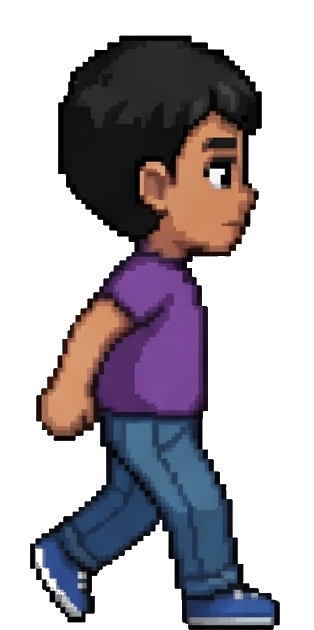
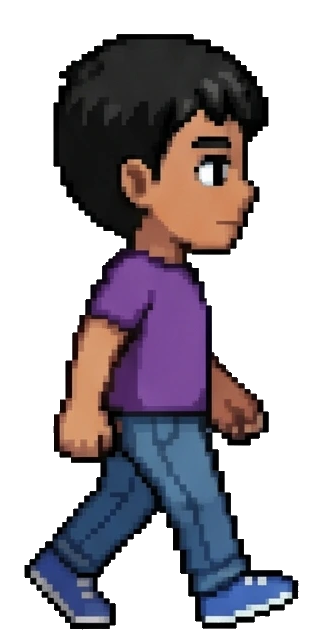
feat(jogo): quadros do personagem por direção (frente com 2)
Tabela QUADROS_PERSONAGEM controla o ciclo de andar, o pré-carregamento
e os colegas online; quadros dos lados e costas-4 corrigidos; remove
frente-3 e frente-4.

diff --git a/js/jogo-revisao.js b/js/jogo-revisao.js
@@ -66,6 +66,10 @@ const RECUO_PORTA = 60;              // ao sair do ginásio, aparece 60 px antes
 const FADE_MS = 250;
 const PERSONAGENS = ['treinador1', 'treinador2', 'treinador3', 'lider'];
 const DIRECOES = ['frente', 'costas', 'direita', 'esquerda'];
+// Sprites do personagem: img/jogo/{PASTA_PERSONAGEM}/{dir}-1..N.webp + {dir}-parado.webp (314 × 630).
+// N por direção — outro personagem (a menina) usa a mesma estrutura de pastas e esta tabela.
+const PASTA_PERSONAGEM = 'personagem-principal';
+const QUADROS_PERSONAGEM = { frente: 2, costas: 4, direita: 4, esquerda: 4 };
 const NUM_MAPAS = 13;
 
 const $ = (id) => document.getElementById(id);
@@ -1046,7 +1050,7 @@ function atualizarColegas(dt) {
     if (andando || agora - c.t0 < TEMPO_INTERP + 120) {
       if (c.quadro < 0) { c.quadro = 0; c.tQuadro = 0; }
       c.tQuadro += dt * 1000;
-      if (c.tQuadro >= T_QUADRO) { c.tQuadro = 0; c.quadro = (c.quadro + 1) % 4; }
+      if (c.tQuadro >= T_QUADRO) { c.tQuadro = 0; c.quadro = (c.quadro + 1) % (QUADROS_PERSONAGEM[c.dir] || 4); }
     } else c.quadro = -1;   // colega parado: pernas juntas
     const src = urlQuadro(DIRECOES.includes(c.dir) ? c.dir : 'frente', c.quadro);
     if (c.el.dataset.src !== src) { c.el.src = src; c.el.dataset.src = src; }
@@ -1319,10 +1323,10 @@ function atualizarBotaoCalado() {
 }
 
 function preCarregarQuadros() {
-  for (const d of DIRECOES) for (let i = 0; i <= 4; i++) { const im = new Image(); im.src = urlQuadro(d, i - 1); }   // parado + 4 de andar
+  for (const d of DIRECOES) for (let i = -1; i < QUADROS_PERSONAGEM[d]; i++) { const im = new Image(); im.src = urlQuadro(d, i); }   // parado + quadros de andar
 }
-// quadro −1 = parado (pernas juntas); 0..3 = ciclo de andar
-const urlQuadro = (dir, q) => `${IMG}/personagem-principal/${dir}-${q < 0 ? 'parado' : q + 1}.webp`;
+// quadro −1 = parado (pernas juntas); 0..N−1 = ciclo de andar (o % cobre a troca de direção no meio do passo)
+const urlQuadro = (dir, q) => `${IMG}/${PASTA_PERSONAGEM}/${dir}-${q < 0 ? 'parado' : q % (QUADROS_PERSONAGEM[dir] || 1) + 1}.webp`;
 
 function mostrarTela(id) {
   for (const t of document.querySelectorAll('.jr-tela')) t.hidden = t.id !== id;
@@ -1730,7 +1734,7 @@ function vetorEntrada() {
 function animarPasso(dt) {
   if (jog.quadro < 0) { jog.quadro = 0; jog.tQuadro = 0; return; }   // começou a andar: quadro 1 na hora
   jog.tQuadro += dt * 1000;
-  if (jog.tQuadro >= T_QUADRO) { jog.tQuadro = 0; jog.quadro = (jog.quadro + 1) % 4; }
+  if (jog.tQuadro >= T_QUADRO) { jog.tQuadro = 0; jog.quadro = (jog.quadro + 1) % QUADROS_PERSONAGEM[jog.dir]; }
 }
 
 // Anda na direção (vx, vy); na trilha, desliza pela borda em vez de travar
